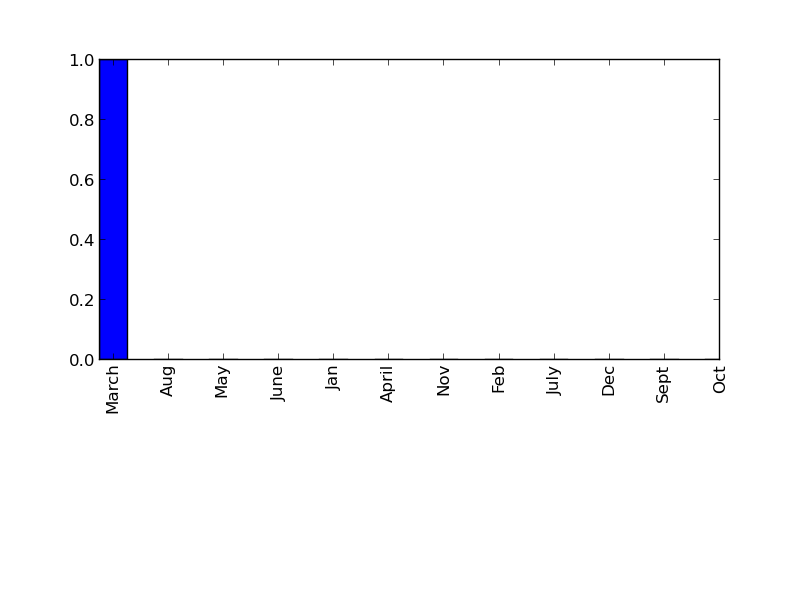
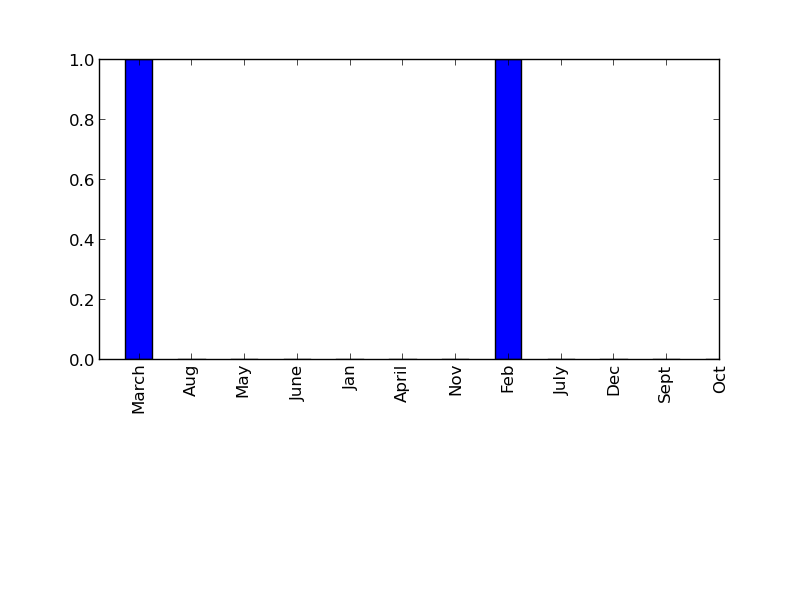
CSS added to schedule.

diff --git a/hris/templates/hris_system/employee_page.html b/hris/templates/hris_system/employee_page.html
@@ -24,7 +24,8 @@
 		{% endif %}
 	{% endif %}
 </div>
-<div>
+
+<div id="schedule">
 		{% if hr_user or mgr_user %}
 		<h2>Employee Schedule</h2>
 			<ul>

diff --git a/hris/static/css/bootstrap.min.css b/hris/static/css/bootstrap.min.css
@@ -83,3 +83,7 @@ h1 {
 .analytics ul {
 	list-style: none;
 }
+
+#schedule {
+	margin-top: 4em;
+}

diff --git a/hris/hris_system/views.py b/hris/hris_system/views.py
@@ -352,12 +352,12 @@ def parse_hire_dates():
 	employees = Employee.objects.all()
 	hire_dates = [i.hire_date for i in employees]
 	dates = {}
-	counter = Counter()
+	
+	# Loop through the hire dates and add up the freq of each month using the Counter object.
+	counter = Counter([i.month for i in hire_dates])
 
-	for i in hire_dates:
-		counter[i.month] += 1
-	#Build the 'dates' dictionary from the counter object.
-	#The counter object has months as keys in numerical form.
+	# Build the 'dates' dictionary from the counter object.
+	# The counter object has months as keys in numerical form.
 	dates['Jan'] = counter[1]
 	dates['Feb'] = counter[2]
 	dates['March'] = counter[3]
